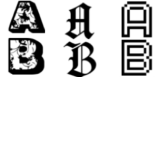
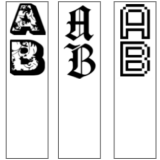
adding EMNLP

Changed region(s): [[0.6875, 0.0, 1.0, 1.0], [0.0312, 0.0, 0.3125, 1.0], [0.3438, 0.0, 0.6562, 1.0]]

diff --git a/index.html b/index.html
@@ -60,6 +60,40 @@
         </tbody></table>
         <table style="width:100%;border:0px;border-spacing:0px;border-collapse:separate;margin-right:auto;margin-left:auto;"><tbody>
 
+          <tr onmouseout="font_stop()" onmouseover="font_start()">
+            <td style="padding:20px;width:25%;vertical-align:middle">
+              <div class="one">
+                <div class="two" id='font_image'><img src='images/font_after.png'></div>
+                <img src='images/font_before.png'>
+              </div>
+              <script type="text/javascript">
+                function font_start() {
+                  document.getElementById('font_image').style.opacity = "1";
+                }
+
+                function font_stop() {
+                  document.getElementById('font_image').style.opacity = "0";
+                }
+                font_stop()
+              </script>
+            </td>
+            <td style="padding:20px;width:75%;vertical-align:middle">
+              <a href="TODO">
+                <papertitle>A Deep Factorization of Style and Structure in Fonts</papertitle>
+              </a>
+              <br>
+              <a href="http://www.cs.cmu.edu/~asrivats/">Akshay Srivatsan</a>,
+              <strong>Jonathan T. Barron</strong>,
+              <a href="https://people.eecs.berkeley.edu/~klein/">Dan Klein</a>,
+              <a href="http://cseweb.ucsd.edu/~tberg/">Taylor Berg-Kirkpatrick</a>
+              <br>
+              <em>EMNLP</em>, 2019
+              <br>
+              <p></p>
+              <p>Variational auto-encoders can be used to disentangle a characters style from its content.</p>
+            </td>
+          </tr>
+          
           <tr onmouseout="dpzlearn_stop()" onmouseover="dpzlearn_start()">
             <td style="padding:20px;width:25%;vertical-align:middle">
               <div class="one">
